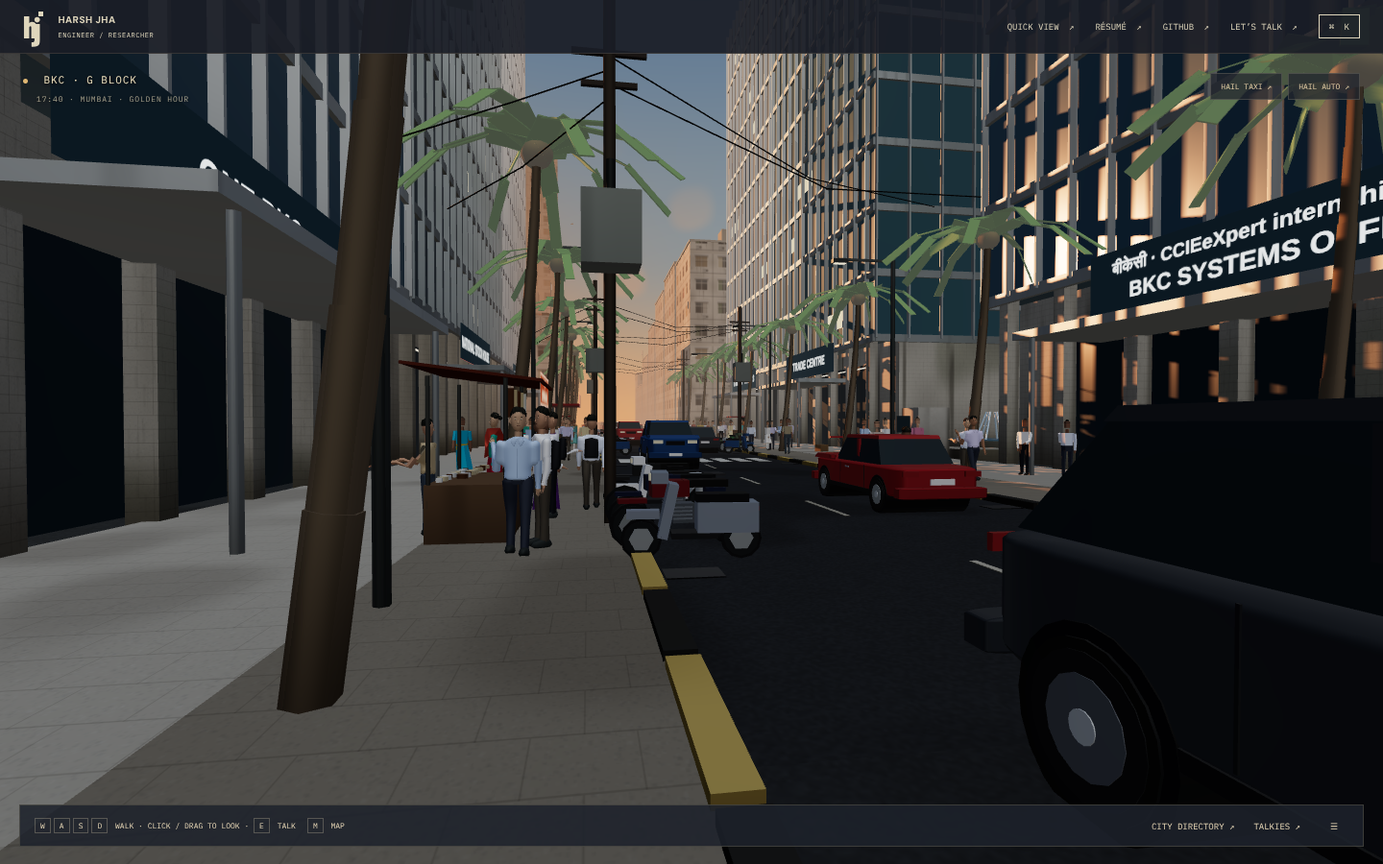
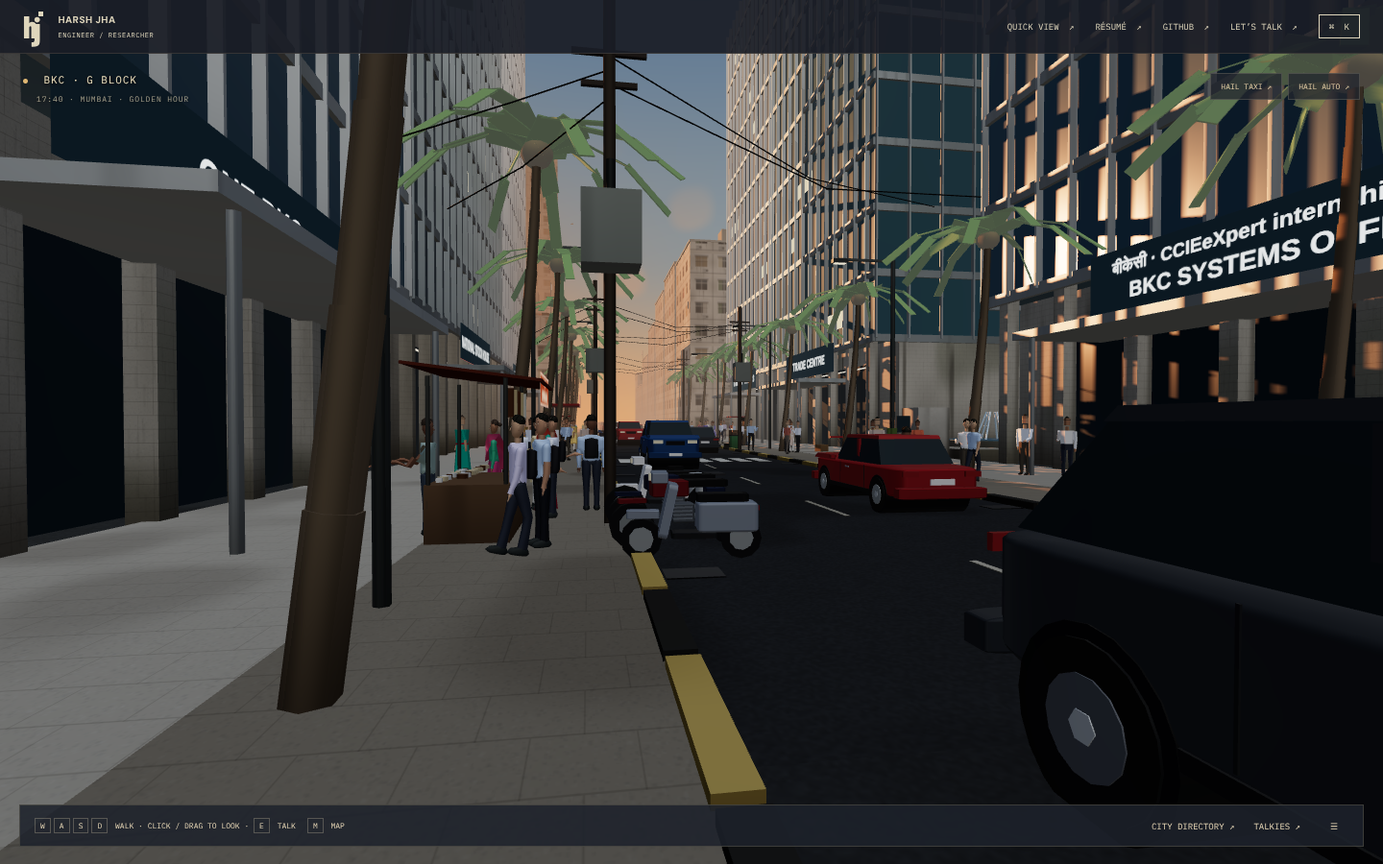
Cars and BEST buses on every road: remodelled double-decker and AC bus, more cars in districts, through traffic on CST–Fort
Claude-Session: https://claude.ai/code/session_0156p9Rzmye5XT8AZyny4SDQ

diff --git a/src/core/WorldEngine.ts b/src/core/WorldEngine.ts
@@ -12,6 +12,8 @@ import { idleRide, pointAtDistance, routeLength, storyFare, type Point, type Rid
 import { STREET_SPAWN, streetStops, streetPickupRoute, walkingVelocity, cityRideLegs, cityZones, zoneIndexAt, districtViews } from '../game/World/streetLayout';
 import { CityDistricts } from '../game/World/districts/CityDistricts';
 import { setCityDensity } from '../game/World/districts/District';
+import { createFortRoadTraffic } from '../game/World/districts/FortRoadTraffic';
+import type { LaneTraffic } from '../game/World/districts/DistrictSystems';
 import { districts as directory } from '../data/city';
 
 interface WorldOptions {
@@ -34,7 +36,7 @@ export class WorldEngine {
   private physics = new CANNON.World({ gravity: new CANNON.Vec3(0, -19, 0) });
   private visitor: CANNON.Body;
   private street: MumbaiStreet;
-  private city!: CityDistricts;
+  private city!: CityDistricts; private fortTraffic!: LaneTraffic;
   /** Index into cityZones of the district being drawn; 0 is CST–Fort. */
   private zone = 0;
   private sky!: THREE.Mesh;
@@ -89,7 +91,7 @@ export class WorldEngine {
     this.street = new MumbaiStreet(this.physics); this.scene.add(this.street.group);
     // Districts are built on first need and receive the same weathering/haze patch as the street.
     setCityDensity(this.renderPreset);
-    this.city = new CityDistricts(this.physics, this.street.surfaceLibrary, this.scene, district => { applyStreetAtmosphere(district.group, this.atmosphere); if (import.meta.env.DEV) console.info(`District ${district.spec.id} built in ${district.buildMs.toFixed(0)} ms`); }); this.street.setQuality(this.quality.low);this.renderer.shadowMap.needsUpdate=true;void this.street.assetsReady.then(()=>{if(!this.disposed)this.pausedFrameDirty=true;});
+    this.city = new CityDistricts(this.physics, this.street.surfaceLibrary, this.scene, district => { applyStreetAtmosphere(district.group, this.atmosphere); if (import.meta.env.DEV) console.info(`District ${district.spec.id} built in ${district.buildMs.toFixed(0)} ms`); }); this.fortTraffic = createFortRoadTraffic(); applyStreetAtmosphere(this.fortTraffic.group, this.atmosphere); this.scene.add(this.fortTraffic.group); this.street.setQuality(this.quality.low);this.renderer.shadowMap.needsUpdate=true;void this.street.assetsReady.then(()=>{if(!this.disposed)this.pausedFrameDirty=true;});
     const preview=import.meta.env.DEV?new URLSearchParams(location.search).get('characterPreview'):null;
     if(stationCharacter&&(stationCharacter.status==='approved'&&stationCharacter.visualReview||preview==='idle'||preview==='walk'))void this.street.installStationCharacter(stationCharacter.asset,preview==='walk').then(()=>{if(!this.disposed){this.pausedFrameDirty=true;this.renderer.shadowMap.needsUpdate=true;}}).catch(error=>console.warn('Character admission failed; existing host retained',error));
     this.visitor = createVisitor(STREET_SPAWN.x, STREET_SPAWN.z);
@@ -191,10 +193,15 @@ export class WorldEngine {
   private syncZone(x: number) {
     const index = zoneIndexAt(x); if (index === this.zone && (index === 0 || this.city.get(index)?.group.visible)) return;
     this.zone = index; const ox = cityZones[index].originX;
-    this.street.group.visible = index === 0; this.city.activate(index);
+    this.street.group.visible = index === 0; this.fortTraffic.group.visible = index === 0; this.city.activate(index);
     this.sun.position.set(STREET_MOOD.sunPosition[0] + ox, STREET_MOOD.sunPosition[1], STREET_MOOD.sunPosition[2]);
     this.sun.target.position.set(STREET_MOOD.sunTarget[0] + ox, STREET_MOOD.sunTarget[1], STREET_MOOD.sunTarget[2]); this.sun.target.updateMatrixWorld();
     this.sky.position.x = ox; this.renderer.shadowMap.needsUpdate = true; this.pausedFrameDirty = true;
+  }
+  private fortPrevious = 0;
+  private updateFortTraffic(others: THREE.Vector3[]) {
+    const delta = this.reducedMotion ? 0 : Math.min(.08, Math.max(0, this.time - this.fortPrevious)); this.fortPrevious = this.time;
+    this.fortTraffic.update(this.time, delta, [this.camera.position, ...this.street.trafficPositions, ...others]);
   }
   private get district() { return this.zone ? this.city.get(this.zone) : null; }
   private finishRide() {
@@ -328,7 +335,9 @@ export class WorldEngine {
         }
       }
       this.syncZone(this.ride.phase === 'idle' || this.ride.phase === 'hailing' ? this.visitor.position.x : this.transit.position.x);
-      this.updateCamera(); if (this.zone === 0) this.street.update(this.time, this.reducedMotion,this.camera.position); else this.district?.update(this.time, this.reducedMotion, this.camera.position);
+      this.updateCamera(); const others = this.transit.visible ? [this.transit.position] : [];
+      if (this.zone === 0) { this.street.extraTrafficObstacles = this.fortTraffic.positions.map(p => ({ x: p.x, z: p.z })); this.street.update(this.time, this.reducedMotion,this.camera.position); this.updateFortTraffic(others); }
+      else this.district?.update(this.time, this.reducedMotion, this.camera.position, others);
       const needsRender=!this.reducedMotion||forceRender||this.camera.position.distanceToSquared(this.lastRenderPosition)>1e-8||this.camera.quaternion.angleTo(this.lastRenderRotation)>.0001||(this.renderer.shadowMap.enabled&&this.renderer.shadowMap.needsUpdate);
       if(needsRender&&!this.paused&&!this.reviewQuality&&this.quality.sample(elapsed)){this.resize();this.street.setQuality(this.quality.low);this.rendering.setPreset(this.quality.low?'low':this.renderPreset);this.resize();this.renderer.shadowMap.enabled=!this.options.mobile&&!this.quality.low&&this.renderPreset!=='low';this.syncSunBalance();this.renderer.shadowMap.needsUpdate=true;}
       if(!this.reducedMotion&&!this.paused&&this.time-this.lastShadow>.2&&this.renderer.shadowMap.enabled){this.renderer.shadowMap.needsUpdate=true;this.lastShadow=this.time;}
@@ -349,7 +358,7 @@ export class WorldEngine {
     window.removeEventListener('street-review-view',this.reviewView);window.removeEventListener('keydown', this.keyDown); window.removeEventListener('keyup', this.keyUp); window.removeEventListener('blur', this.releaseInput);
     document.removeEventListener('visibilitychange', this.visibilityChanged); document.removeEventListener('pointerlockchange', this.lockChanged);
     const canvas = this.renderer.domElement; canvas.removeEventListener('pointerdown', this.pointerDown); window.removeEventListener('pointermove', this.pointerMove); window.removeEventListener('pointerup', this.pointerUp); canvas.removeEventListener('pointercancel', this.pointerUp); canvas.removeEventListener('webglcontextlost', this.contextLost);
-    window.removeEventListener('street-benchmark',this.benchmarkCommand);this.profiler?.dispose();this.street.dispose();this.city.dispose();this.rendering.dispose();this.environmentTarget.dispose();
+    window.removeEventListener('street-benchmark',this.benchmarkCommand);this.profiler?.dispose();this.street.dispose();this.city.dispose();this.fortTraffic.group.traverse(o=>{const m=o as THREE.Mesh;if(!m.isMesh)return;for(const g of new Set([m.geometry,...((m.userData.lodGeometries??[]) as THREE.BufferGeometry[])]))g.dispose();});this.rendering.dispose();this.environmentTarget.dispose();
     const geometries = new Set<THREE.BufferGeometry>(), materials = new Set<THREE.Material>(), textures = new Set<THREE.Texture>(), skeletons = new Set<THREE.Skeleton>();
     this.scene.traverse(object => { const mesh = object as THREE.SkinnedMesh; if (mesh.isSkinnedMesh) skeletons.add(mesh.skeleton); if (mesh.geometry) geometries.add(mesh.geometry); for(const g of (mesh.userData.lodGeometries??[]) as THREE.BufferGeometry[]) geometries.add(g); if (mesh.material) for (const m of Array.isArray(mesh.material) ? mesh.material : [mesh.material]) { materials.add(m); for(const key of ['map','bumpMap','roughnessMap','normalMap'] as const)if((m as THREE.MeshStandardMaterial)[key])textures.add((m as THREE.MeshStandardMaterial)[key]!); } });
     skeletons.forEach(s => s.dispose()); geometries.forEach(g => g.dispose()); materials.forEach(m => m.dispose()); textures.forEach(t => t.dispose()); this.renderer.dispose(); canvas.remove(); this.debug?.remove();

diff --git a/src/game/World/districts/CityVehicles.ts b/src/game/World/districts/CityVehicles.ts
@@ -28,19 +28,28 @@ export function createCityVehicle(kind: CityVehicleKind, seed: string, rider = t
   const r = seededRandom(`vehicle:${seed}`), m = new ColorMesh(lite), pick = <T,>(l: T[]) => l[Math.floor(r() * l.length)];
   switch (kind) {
     case 'bus': {
-      const red = '#b0261d', cream = '#e8dcc2', L = 10.2;
-      m.rounded([2.5, 1.95, L], [0, 1.33, 0], red); m.rounded([2.48, 1.85, L - .25], [0, 3.28, .1], red);
-      m.box([2.54, .16, L - .1], [0, 2.32, 0], cream); m.rounded([2.42, .14, L - .4], [0, 4.24, .1], cream);
-      for (const y of [1.72, 3.32]) for (const s of [-1, 1]) {
-        m.box([.04, .78, L - 1.6], [s * 1.255, y, .45], glass);
-        for (let z = -L / 2 + 1.3; z < L / 2 - .2; z += 1.12) m.box([.06, .8, .1], [s * 1.26, y, z], red);
+      // BEST: most are the red double-decker; some are the newer single-deck red AC buses.
+      const red = '#b3241b', deep = '#8c1a14', cream = '#ece2c8', L = 10.2, double = r() < .65;
+      m.rounded([2.5, 1.95, L], [0, 1.33, 0], red);
+      if (double) { m.rounded([2.48, 1.86, L - .2], [0, 3.28, .08], red); m.box([2.53, .2, L - .06], [0, 2.32, 0], cream); m.rounded([2.4, .16, L - .5], [0, 4.25, .1], deep); }
+      else { m.rounded([2.48, .85, L - .1], [0, 2.62, 0], red); m.rounded([2.3, .22, L * .5], [0, 3.12, .8], '#cfcfca'); for (let i = 0; i < 6; i++) m.box([.12, .03, L * .45], [-.7 + i * .28, 3.25, .8], '#8d8f8c'); }
+      m.box([2.54, .26, L - .3], [0, .5, 0], '#2a2a2a');
+      // Window bands: individual panes between red pillars, the driver's cab glass, and the open door.
+      for (const y of double ? [1.78, 3.36] : [2.0]) for (const sd of [-1, 1]) {
+        const h = double ? .78 : 1.05; m.box([.04, h, L - 1.5], [sd * 1.256, y, .4], glass);
+        for (let z = -L / 2 + 1.3; z < L / 2 - .2; z += 1.12) m.box([.07, h + .04, .12], [sd * 1.262, y, z], red);
+        m.box([.05, .05, L - 1.5], [sd * 1.262, y + h / 2 + .03, .4], cream);
       }
-      m.box([2.2, .9, .05], [0, 1.85, -L / 2 - .01], glass); m.box([2.2, .75, .05], [0, 3.35, -L / 2 + .12], glass);
-      m.box([1.7, .26, .06], [0, 4.0, -L / 2 + .1], '#e4b13d'); m.box([1.2, .12, .07], [0, 4.0, -L / 2 + .08], '#3b2a12');
-      m.box([.9, 1.95, .05], [-1.26, 1.25, -L / 2 + 1.3], '#2a2f30'); m.box([.05, 1.95, .9], [-1.26, 1.25, L / 2 - 1.4], '#2a2f30');
-      for (const s of [-1, 1]) { m.box([.28, .18, .05], [s * .9, .75, -L / 2 - .02], lamp); m.box([.25, .2, .05], [s * .95, .8, L / 2 + .02], tail); }
-      m.box([2.4, .32, .2], [0, .48, -L / 2 - .05], '#2b2b2b'); m.box([.6, .12, .05], [0, .55, -L / 2 - .16], '#f2efe6');
-      for (const z of [-L / 2 + 1.8, L / 2 - 2.2]) for (const s of [-1, 1]) m.wheel(.5, .34, [s * 1.08, .5, z]);
+      m.box([2.24, 1.05, .05], [0, 1.9, -L / 2 - .01], glass, [-.06, 0, 0]); if (double) m.box([2.2, .78, .05], [0, 3.36, -L / 2 + .1], glass);
+      m.box([.06, 1.0, .05], [0, 1.9, -L / 2 - .03], red);
+      // Destination board: amber route number and destination on black.
+      const boardY = double ? 2.82 : 2.72; m.box([2.0, .32, .07], [0, boardY, -L / 2 + .02], '#151515'); m.box([.42, .2, .08], [-.72, boardY, -L / 2 + .015], '#f0a32a'); m.box([1.2, .14, .08], [.25, boardY, -L / 2 + .015], '#e8962a');
+      m.box([.9, 1.95, .05], [-1.26, 1.25, -L / 2 + 1.35], '#1f2324'); m.box([.05, 1.95, .95], [-1.262, 1.25, L / 2 - 1.5], '#1f2324');
+      for (const sd of [-1, 1]) { m.rod([sd * 1.24, 2.25, -L / 2 + .2], [sd * 1.5, 2.1, -L / 2 - .2], .02, '#2a2a2a'); m.box([.08, .32, .2], [sd * 1.52, 1.95, -L / 2 - .22], '#202224'); }
+      for (const sd of [-1, 1]) { m.box([.3, .18, .05], [sd * .9, .78, -L / 2 - .03], lamp); m.box([.22, .32, .05], [sd * .98, .95, L / 2 + .02], tail); m.box([.08, .08, .04], [sd * 1.12, .62, -L / 2 - .03], '#e8a33a'); }
+      m.box([2.46, .34, .22], [0, .5, -L / 2 - .06], '#262626'); m.box([.6, .14, .05], [0, .55, -L / 2 - .18], '#f2efe6');
+      m.box([1.6, .6, .05], [0, 1.0, L / 2 + .02], '#3d3d3b'); for (let i = 0; i < 5; i++) m.box([1.5, .04, .06], [0, .8 + i * .1, L / 2 + .04], '#222');
+      for (const z of [-L / 2 + 1.9, L / 2 - 2.3]) { m.shape('tyre', [.6, 2.52, .6], [0, .5, z], '#121314', [0, 0, Math.PI / 2]); for (const sd of [-1, 1]) m.wheel(.5, .3, [sd * 1.1, .5, z], tyre, '#8d8f8a'); }
       if (rider) addDriver(m, `${seed}:bus`, .65, .25, -L / 2 + 1.0); break;
     }
     case 'hatch': case 'sedan': case 'suv': case 'taxi': {

diff --git a/src/game/World/districts/catalog.ts b/src/game/World/districts/catalog.ts
@@ -68,8 +68,8 @@ const bkc: DistrictSpec = {
 /* ============================================================ ANDHERI */
 const andheriShops: Array<[string, string?]> = [['MOBILE REPAIR', 'मोबाइल रिपेयर'], ['LAPTOP SERVICE', 'लैपटॉप'], ['COMPUTER PARTS', 'कंप्यूटर'], ['GPU · RAM · SSD'], ['ARDUINO · RASPBERRY PI'], ['CABLES & CHARGERS', 'केबल'], ['PYTHON · C++ BOOKS', 'किताबें'], ['CCTV & NETWORKING'], ['RECHARGE · SIM', 'रिचार्ज'], ['SOLDERING · CHIPS'], ['PRINTER INK · TONER'], ['REACT · NODE CLASSES'], ['GAMING ZONE'], ['PHONE COVERS', 'कवर'], ['UPS · INVERTER'], ['TYPESCRIPT TUITIONS']];
 const andheri: DistrictSpec = {
-  id: 'andheri', guide: 'the bazaar curator', guideOutfit: 'vendor', crowd: .75,
-  traffic: ['auto', 'bike', 'auto', 'cart', 'tempo', 'taxi', 'auto', 'bike', 'hatch', 'cycle', 'auto', 'bike', 'auto', 'suv'],
+  id: 'andheri', guide: 'the bazaar curator', guideOutfit: 'vendor', crowd: .62,
+  traffic: ['auto', 'bike', 'sedan', 'cart', 'bus', 'taxi', 'auto', 'hatch', 'bike', 'suv', 'auto', 'sedan'],
   build(d) {
     const c = d.ctx, { kit } = c; let n = 0;
     const shops = (k: number) => Array.from({ length: k }, () => andheriShops[n++ % andheriShops.length]);
@@ -127,7 +127,7 @@ const powai: DistrictSpec = {
 /* ============================================================ DADAR */
 const dadar: DistrictSpec = {
   id: 'dadar', guide: 'the platform announcer', guideOutfit: 'kurta',
-  traffic: ['bus', 'taxi', 'hatch', 'taxi', 'tempo', 'bike', 'sedan', 'taxi', 'cycle', 'bus', 'taxi', 'bike'],
+  traffic: ['bus', 'taxi', 'hatch', 'sedan', 'tempo', 'bike', 'sedan', 'taxi', 'suv', 'bus', 'hatch', 'bike'],
   build(d) {
     const c = d.ctx, { kit } = c;
     const chawlShops: Array<[string, string?]> = [['VADA PAV CENTRE', 'वडा पाव'], ['STATIONERY · NOTEBOOKS', 'वह्या'], ['CHEMIST', 'औषधे'], ['TAILOR', 'शिंपी'], ['SWEETS · MITHAI', 'मिठाई'], ['KIRANA', 'किराणा'], ['XEROX · PRINTS'], ['BHAJI PAV', 'भाजी']];
@@ -211,7 +211,7 @@ const worli: DistrictSpec = {
 /* ============================================================ JUHU */
 const juhu: DistrictSpec = {
   id: 'juhu', guide: 'the studio neighbour', guideOutfit: 'kurta', west: 'open', westLimit: 37.5, skyline: 'east',
-  traffic: ['suv', 'sedan', 'auto', 'bike', 'taxi', 'hatch', 'auto', 'suv', 'bike', 'sedan', 'auto', 'hatch'],
+  traffic: ['suv', 'sedan', 'auto', 'bus', 'taxi', 'hatch', 'sedan', 'suv', 'bike', 'sedan', 'auto', 'hatch'],
   build(d) {
     const c = d.ctx, { kit } = c;
     kit.box([2.9, .08, 290], [-5.35, .02, -22], '#aea493', 'paving'); for (let z = 118; z > -160; z -= 1.7) kit.box([.24, .14, 1.6], [-3.98, .06, z], '#2f2e2b');
@@ -243,7 +243,7 @@ const juhu: DistrictSpec = {
 /* ============================================================ FILM CITY */
 const filmcity: DistrictSpec = {
   id: 'filmcity', guide: 'the projectionist', guideOutfit: 'shirt', palette: ['#c9c2b0', '#b8b29e', '#d0c4ad'],
-  traffic: ['suv', 'tempo', 'bike', 'auto', 'hatch', 'sedan', 'tempo', 'suv', 'bike', 'cart'],
+  traffic: ['suv', 'bus', 'sedan', 'auto', 'hatch', 'sedan', 'tempo', 'suv', 'bike', 'hatch'],
   build(d) {
     const c = d.ctx, { kit } = c;
     // Gate arch at the studio entrance.

diff --git a/src/game/World/districts/DistrictSystems.ts b/src/game/World/districts/DistrictSystems.ts
@@ -143,6 +143,15 @@ interface Agent { mesh: THREE.Mesh; kind: CityVehicleKind; lane: number; s: numb
  */
 export class LaneTraffic {
   readonly group = new THREE.Group(); private lanes: Array<{ curve: THREE.CatmullRomCurve3; length: number }> = []; private agents: Agent[] = [];
+  private stops: Array<{ lane: number; s: number; active: (time: number) => boolean }> = [];
+  /** A stop line on a lane at local `z`, held while `active(time)` (a pedestrian green). */
+  stopLine(lane: number, z: number, active: (time: number) => boolean) {
+    const { curve, length } = this.lanes[lane]; let best = 0, bestGap = Infinity;
+    for (let i = 0; i <= 400; i++) { const gap = Math.abs(curve.getPointAt(i / 400).z - z); if (gap < bestGap) { bestGap = gap; best = i / 400; } }
+    this.stops.push({ lane, s: best * length, active });
+  }
+  /** Positions of the vehicles currently on the road (for other traffic to queue behind). */
+  get positions() { return this.agents.filter(a => a.active && a.mesh.visible).map(a => a.mesh.position); }
   lane(points: V3[]) { const curve = new THREE.CatmullRomCurve3(points.map(p => new THREE.Vector3(...p)), false, 'centripetal'); this.lanes.push({ curve, length: curve.getLength() }); return this.lanes.length - 1; }
   vehicle(lane: number, kind: CityVehicleKind, at: number, seed: string, parked = false) {
     const mesh = createCityVehicleLod(kind, seed); this.group.add(mesh);
@@ -167,11 +176,13 @@ export class LaneTraffic {
       let target = a.max, gap = Infinity;
       for (const b of this.agents) if (b !== a && b.lane === a.lane && b.active && b.s > a.s) gap = Math.min(gap, b.s - a.s - (a.length + b.length) / 2);
       target = Math.min(target, Math.max(0, (gap - 2.2) * .9));
+      for (const stop of this.stops) if (stop.lane === a.lane && stop.active(time)) { const toLine = stop.s - a.s - a.length / 2; if (toLine > -.3 && toLine < 14) target = Math.min(target, Math.max(0, toLine * .8)); }
       const f = new THREE.Vector3(-Math.sin(a.mesh.rotation.y), 0, -Math.cos(a.mesh.rotation.y));
-      for (const o of obstacles) {
-        const rel = o.clone().setY(0).sub(a.mesh.position.clone().setY(0)), ahead = rel.dot(f), side = Math.abs(rel.x * f.z - rel.z * f.x);
-        if (ahead > 0 && ahead < a.length / 2 + 9 && side < 1.5) target = Math.min(target, Math.max(0, (ahead - a.length / 2 - 1.6) * .9));
-      }
+      obstacles.forEach((o, k) => {
+        // The first obstacle is the visitor; the rest are other vehicles, which need their own half-length of room.
+        const rel = o.clone().setY(0).sub(a.mesh.position.clone().setY(0)), ahead = rel.dot(f), side = Math.abs(rel.x * f.z - rel.z * f.x), room = k === 0 ? 1.6 : 3.8;
+        if (ahead > 0 && ahead < a.length / 2 + room + 8 && side < 1.5) target = Math.min(target, Math.max(0, (ahead - a.length / 2 - room) * .9));
+      });
       const rate = target < a.speed ? 6 : 1.4; a.speed += THREE.MathUtils.clamp(target - a.speed, -rate * delta, rate * delta);
       a.s += a.speed * delta;
       if (a.s >= lane.length) { a.active = false; a.mesh.visible = false; continue; }

diff --git a/src/game/World/districts/ColorMesh.ts b/src/game/World/districts/ColorMesh.ts
@@ -16,7 +16,7 @@ const unit = {
   rim: new THREE.CylinderGeometry(1, 1, 1, 14),
 };
 /** Cheaper stand-ins for the distant version of a vehicle or prop. */
-const liteUnit: Record<UnitShape, THREE.BufferGeometry> = { ...unit, rounded: unit.box, cylinder: unit.cylinderLow, tyre: new THREE.CylinderGeometry(1, 1, 1, 12), rim: unit.cylinderLow, sphere: new THREE.SphereGeometry(1, 6, 4), cone: new THREE.ConeGeometry(1, 1, 5) };
+const liteUnit: Record<UnitShape, THREE.BufferGeometry> = { ...unit, rounded: new RoundedBoxGeometry(1, 1, 1, 1, .1), cylinder: unit.cylinderLow, tyre: new THREE.CylinderGeometry(1, 1, 1, 12), rim: new THREE.CylinderGeometry(1, 1, 1, 9), sphere: new THREE.SphereGeometry(1, 6, 4), cone: new THREE.ConeGeometry(1, 1, 5) };
 export type UnitShape = keyof typeof unit;
 const tapers = new Map<string, THREE.BufferGeometry>();
 
@@ -69,11 +69,10 @@ export class ColorMesh {
   rounded(size: V3, position: V3, color: string | THREE.Color, rotation: V3 = [0, 0, 0]) { return this.shape('rounded', size, position, color, rotation); }
   /** A wheel or drum lying across X. */
   wheel(radius: number, width: number, position: V3, color = '#1d2021', hub = '#8b8d86') {
-    // Round tyre with a darker sidewall band, a pressed rim and a small hub cap.
+    // Round tyre, a pressed rim and a small hub cap.
     this.shape('tyre', [radius, width, radius], position, color, [0, 0, Math.PI / 2]);
-    this.shape('tyre', [radius * .86, width * 1.04, radius * .86], position, '#262829', [0, 0, Math.PI / 2]);
     this.shape('rim', [radius * .6, width * 1.08, radius * .6], position, hub, [0, 0, Math.PI / 2]);
-    this.shape('rim', [radius * .2, width * 1.14, radius * .2], position, '#c9cbc6', [0, 0, Math.PI / 2]);
+    this.shape('cylinderLow', [radius * .2, width * 1.14, radius * .2], position, '#c9cbc6', [0, 0, Math.PI / 2]);
   }
   /** A thin rod between two points. */
   rod(a: V3, b: V3, radius: number, color: string) {

diff --git a/src/game/World/MumbaiStreet.ts b/src/game/World/MumbaiStreet.ts
@@ -73,6 +73,10 @@ export class MumbaiStreet {
   private walkers: Array<{group:THREE.Group;agent?:CrowdAgent;target:number;wait:number}> = [];
   private trafficSystem = new RoadTraffic();
   private trafficVehicles: THREE.Group[] = [];
+  /** Through traffic driven outside the street (cars, BEST buses) that the loop taxis must queue behind. */
+  extraTrafficObstacles: Array<{ x: number; z: number }> = [];
+  /** Where the street's own taxis and autos are, so through traffic can queue behind them. */
+  get trafficPositions() { return this.trafficVehicles.map(v => v.position); }
   private previousTime = 0;
   private viewPosition = new THREE.Vector3();
   /** Shared verified surface materials; the other districts clone these. */
@@ -677,7 +681,7 @@ export class MumbaiStreet {
       }
       this.navigation.crowd.update(1/30,delta,3);
     }
-    this.npcUpdateMs=performance.now()-start;const trafficStart=performance.now();this.trafficSystem.step(delta,time,[{x:this.viewPosition.x,z:this.viewPosition.z},...this.walkers.filter(w=>Math.abs(w.group.position.x)<3.9).map(w=>({x:w.group.position.x,z:w.group.position.z}))]);
+    this.npcUpdateMs=performance.now()-start;const trafficStart=performance.now();this.trafficSystem.step(delta,time,[{x:this.viewPosition.x,z:this.viewPosition.z},...this.walkers.filter(w=>Math.abs(w.group.position.x)<3.9).map(w=>({x:w.group.position.x,z:w.group.position.z})),...this.extraTrafficObstacles]);
     this.trafficVehicles.forEach((vehicle,i)=>{const p=this.trafficSystem.pose(i),turn=Math.atan2(Math.sin(p.heading-vehicle.rotation.y),Math.cos(p.heading-vehicle.rotation.y));vehicle.position.set(p.x,.02,p.z);vehicle.rotation.y+=turn*(1-Math.exp(-8*delta));animateTransit(vehicle,this.trafficSystem.agents[i].distance,turn);});this.trafficUpdateMs=performance.now()-trafficStart;
     for (const animate of this.motion) animate(reduced ? 0 : time);
     this.group.updateMatrixWorld(true);

diff --git a/src/game/World/districts/District.ts b/src/game/World/districts/District.ts
@@ -164,9 +164,9 @@ export class District {
       }
       // Two-wheelers parked nose-in at the kerb, in clusters.
       const kinds = ['bike', 'bike', 'cycle', 'bike'] as const;
-      for (let z = 10 - r() * 4; z > -58; z -= 9 + r() * 7) {
+      for (let z = 10 - r() * 4; z > -58; z -= 14 + r() * 8) {
         if (!this.clearOf(side * 3.4, z) || !this.clearOf(side * 3.4, z - 4)) continue;
-        const count = 3 + Math.floor(r() * 4);
+        const count = 3 + Math.floor(r() * 3);
         for (let i = 0; i < count; i++) this.parkedLite(kinds[Math.floor(r() * kinds.length)], side * 3.35, z - i * .85, side > 0 ? -Math.PI / 2 + (r() - .5) * .2 : Math.PI / 2 + (r() - .5) * .2);
         this.kit.solid([1.6, 1.2, count * .85], [side * 3.35, .6, z - (count - 1) * .85 / 2]);
       }
@@ -185,11 +185,11 @@ export class District {
     mesh.name = 'district:parked'; mesh.castShadow = mesh.receiveShadow = true; this.group.add(mesh);
   }
   setActive(active: boolean) { this.group.visible = active; }
-  update(time: number, reduced: boolean, view: THREE.Vector3) {
+  update(time: number, reduced: boolean, view: THREE.Vector3, others: THREE.Vector3[] = []) {
     const delta = reduced ? 0 : Math.min(.08, Math.max(0, time - this.previous)); this.previous = time;
     const local = view.clone().sub(this.origin);
     this.crowd.update(reduced ? 0 : time, delta, local);
-    this.traffic.update(time, delta, [local]);
+    this.traffic.update(time, delta, [local, ...others.map(o => o.clone().sub(this.origin))]);
     if (!reduced) for (const w of this.waters) w.update(time);
     for (const m of this.motion) m(reduced ? 0 : time, delta);
   }

diff --git a/src/game/World/districts/FortRoadTraffic.ts b/src/game/World/districts/FortRoadTraffic.ts
@@ -1,0 +1,19 @@
+import { pedestrianGreen } from '../traffic/RoadTraffic';
+import { LaneTraffic } from './DistrictSystems';
+import { cityDensity } from './District';
+import type { CityVehicleKind } from './CityVehicles';
+
+/**
+ * Through traffic for the CST–Fort street: private cars and red BEST double-deckers on the same
+ * two lanes as the street's own taxi and auto loop. They stop for the pedestrian green at the
+ * zebra, queue behind the loop vehicles, and the loop vehicles queue behind them in turn.
+ */
+export function createFortRoadTraffic() {
+  const traffic = new LaneTraffic(), base: CityVehicleKind[] = ['sedan', 'bus', 'hatch', 'suv', 'sedan', 'hatch', 'bus', 'sedan', 'bike', 'suv', 'hatch', 'sedan'];
+  const north = traffic.lane([[1.75, 0, 120], [1.75, 0, -160]]), south = traffic.lane([[-1.75, 0, -160], [-1.75, 0, 120]]);
+  traffic.stopLine(north, -8.8, pedestrianGreen); traffic.stopLine(south, -15.2, pedestrianGreen);
+  const kinds = Array.from({ length: Math.round(base.length * cityDensity.traffic * .35) }, (_, i) => base[i % base.length]), half = Math.ceil(kinds.length / 2);
+  kinds.forEach((kind, i) => traffic.vehicle(i % 2 ? south : north, kind, ((i >> 1) + (i % 2) * .5) / half, `fort:${i}`));
+  traffic.group.name = 'fort-road:through-traffic';
+  return traffic;
+}

diff --git a/src/game/World/streetLayout.ts b/src/game/World/streetLayout.ts
@@ -73,6 +73,8 @@ export function cityRideLegs(start: Point, destination: string): Point[][] {
 
 /** Development review poses inside the districts (local x/z, offset by each district origin). */
 const localViews: Record<string, Point & { yaw: number }> = {
+  'cst-traffic': { x: 4.7, z: -24, yaw: .22 }, 'cst-traffic-south': { x: -4.7, z: -44, yaw: Math.PI - .22 },
+  'worli-traffic': { x: 4.7, z: -26, yaw: .2 }, 'dadar-traffic': { x: 4.7, z: -34, yaw: .2 },
   'bkc-boulevard': { x: -4.6, z: 16, yaw: -.16 }, 'bkc-plaza': { x: 8.6, z: -26, yaw: .35 },
   'andheri-lane': { x: -4.6, z: 13, yaw: -.12 }, 'andheri-stalls': { x: 4.7, z: -20, yaw: .3 },
   'powai-lake': { x: -9, z: 4, yaw: .9 }, 'powai-towers': { x: -6, z: 14, yaw: -.35 },

diff --git a/tests/districts.test.ts b/tests/districts.test.ts
@@ -56,7 +56,7 @@ describe('city districts', () => {
       district.crowd.group.traverse(o => { if ((o as THREE.SkinnedMesh).isSkinnedMesh) expect((o.userData.lodGeometries as unknown[]).length).toBe(3); });
       for (const v of district.traffic.group.children) expect((v.userData.lodGeometries as unknown[]).length).toBe(2);
       expect(staticDraws, cityZones[i].id).toBeLessThan(20);
-      expect(staticTriangles, cityZones[i].id).toBeLessThan(160_000);
+      expect(staticTriangles, cityZones[i].id).toBeLessThan(180_000);
       expect(movers, cityZones[i].id).toBeLessThan(120);
       // Only the active district is kept alive.
       expect(root.children).toHaveLength(1);
